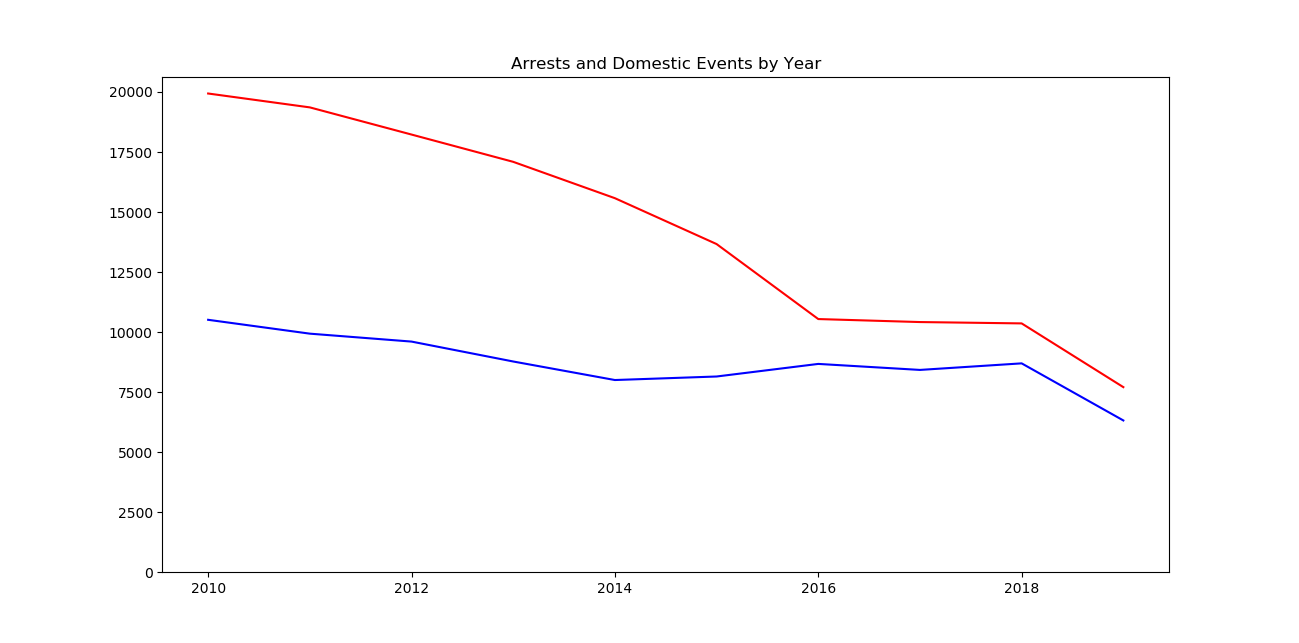
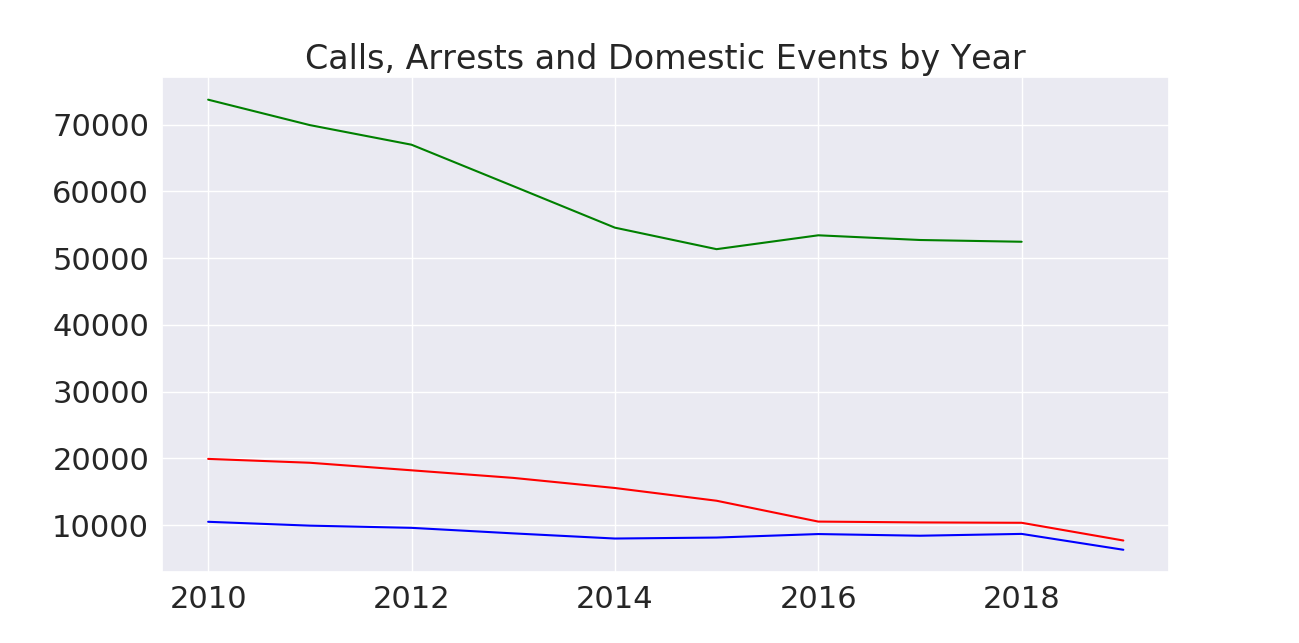
update graph

diff --git a/src/Chicago_crime.py b/src/Chicago_crime.py
@@ -96,12 +96,12 @@ def geo_maps(df, measure, year):
 #geo_maps(geo_df, Arrest, 2010)    
 
 
-fig,ax = plt.subplots(figsize = (15, 15))
-street_map.plot(ax = ax, alpha = .4, color='grey')
-geo_df['Primary Type'].values.plot(ax=ax)
-plt.title('Calls by Primary Type 2010')
-plt.legend(prop={'size': 15})
-plt.show()
+# fig,ax = plt.subplots(figsize = (15, 15))
+# street_map.plot(ax = ax, alpha = .4, color='grey')
+# geo_df['Primary Type'].values.plot(ax=ax)
+# plt.title('Calls by Primary Type 2010')
+# plt.legend(prop={'size': 15})
+# plt.show()
 
 ###geomap of DV calls 
 # fig, ax = plt.subplots(figsize=(15,15))
@@ -134,17 +134,25 @@ def plot_eda_lines(measure, y):
     plt.title(year)
     return
 
+
+##############Plot City pop by year
 # lists = sorted(chicagopops.items()) # sorted by key, return a list of tuples
 # x, y = zip(*lists) # unpack a list of pairs into two tuples
 # plt.plot(x, y)
 # plt.xticks(fontsize=10)
 # plt.title('City of Chicago Population by Year')
 # plt.show()
+###########plot arrests and domestic events by year
+a=(2010, 2011, 2012, 2013, 2014, 2015, 2016, 2017, 2018)
+b = (73758, 69947, 67009, 60808, 54582, 51359, 53436, 52733, 52470)
+arrestsbyyear = Xmatrixnona.groupby('Year')['Arrest'].sum()
+domesticbyyear = Xmatrixnona.groupby('Year')['Domestic'].sum()
 
-# fig,ax = plt.subplots(figsize = (15, 15))
-# ax.plot(arrestsbyyear.index,arrestsbyyear.values, color='red')
-# ax.plot(domesticbyyear.index,domesticbyyear.values, color = 'blue')
-# plt.title('Arrests and Domestic Events by Year')
+fig,ax = plt.subplots(figsize = (15, 15))
+ax.plot(a,b, color='green')
+ax.plot(arrestsbyyear.index,arrestsbyyear.values, color='red')
+ax.plot(domesticbyyear.index,domesticbyyear.values, color = 'blue')
+plt.title('Calls, Arrests and Domestic Events by Year')
 
 # fig,ax = plt.subplots()
 # for primtype in primtypes:
@@ -197,19 +205,19 @@ X_train,X_test,y_train,y_test = train_test_split(X,y,test_size=0.25,random_state
 logistic_regression= LogisticRegression(class_weight='balanced')
 model = logistic_regression.fit(X_train,y_train)
 y_pred=logistic_regression.predict(X_test)
-print(model)
+#print(model)
 
 coeffs = pd.DataFrame(zip(X.columns, model.coef_))
-print('Coeffs:', coeffs)
+#print('Coeffs:', coeffs)
 
 confusion_matrix = pd.crosstab(y_test, y_pred, rownames=['Actual'], colnames=['Predicted'])
 f, ax = plt.subplots(1, figsize=(10, 8))
 
 sns.set(font_scale=2)
 plt.title('Confusion Matrix for Logistic Regression')
-sns.heatmap(confusion_matrix, annot=True, fmt='d', linewidths=.5, ax=ax)
+sns.heatmap(confusion_matrix, annot=True, fmt='d', linewidths=.5)
 
-print('Accuracy: ',metrics.accuracy_score(y_test, y_pred))
+#print('Accuracy: ',metrics.accuracy_score(y_test, y_pred))
 # results = confusion_matrix(y_test, y_pred) 
 # print('Confusion Matrix :')
 # print(results)  
@@ -239,7 +247,8 @@ FDR = FP/(TP+FP)
 # Overall accuracy
 
 if __name__ == '__main__':  
-
+    arrestsbyyear = Xmatrixnona.groupby('Year')['Arrest'].sum()
+    domesticbyyear = Xmatrixnona.groupby('Year')['Domestic'].sum()
     
     
     # plot_eda_hist('Arrest', 2010)
